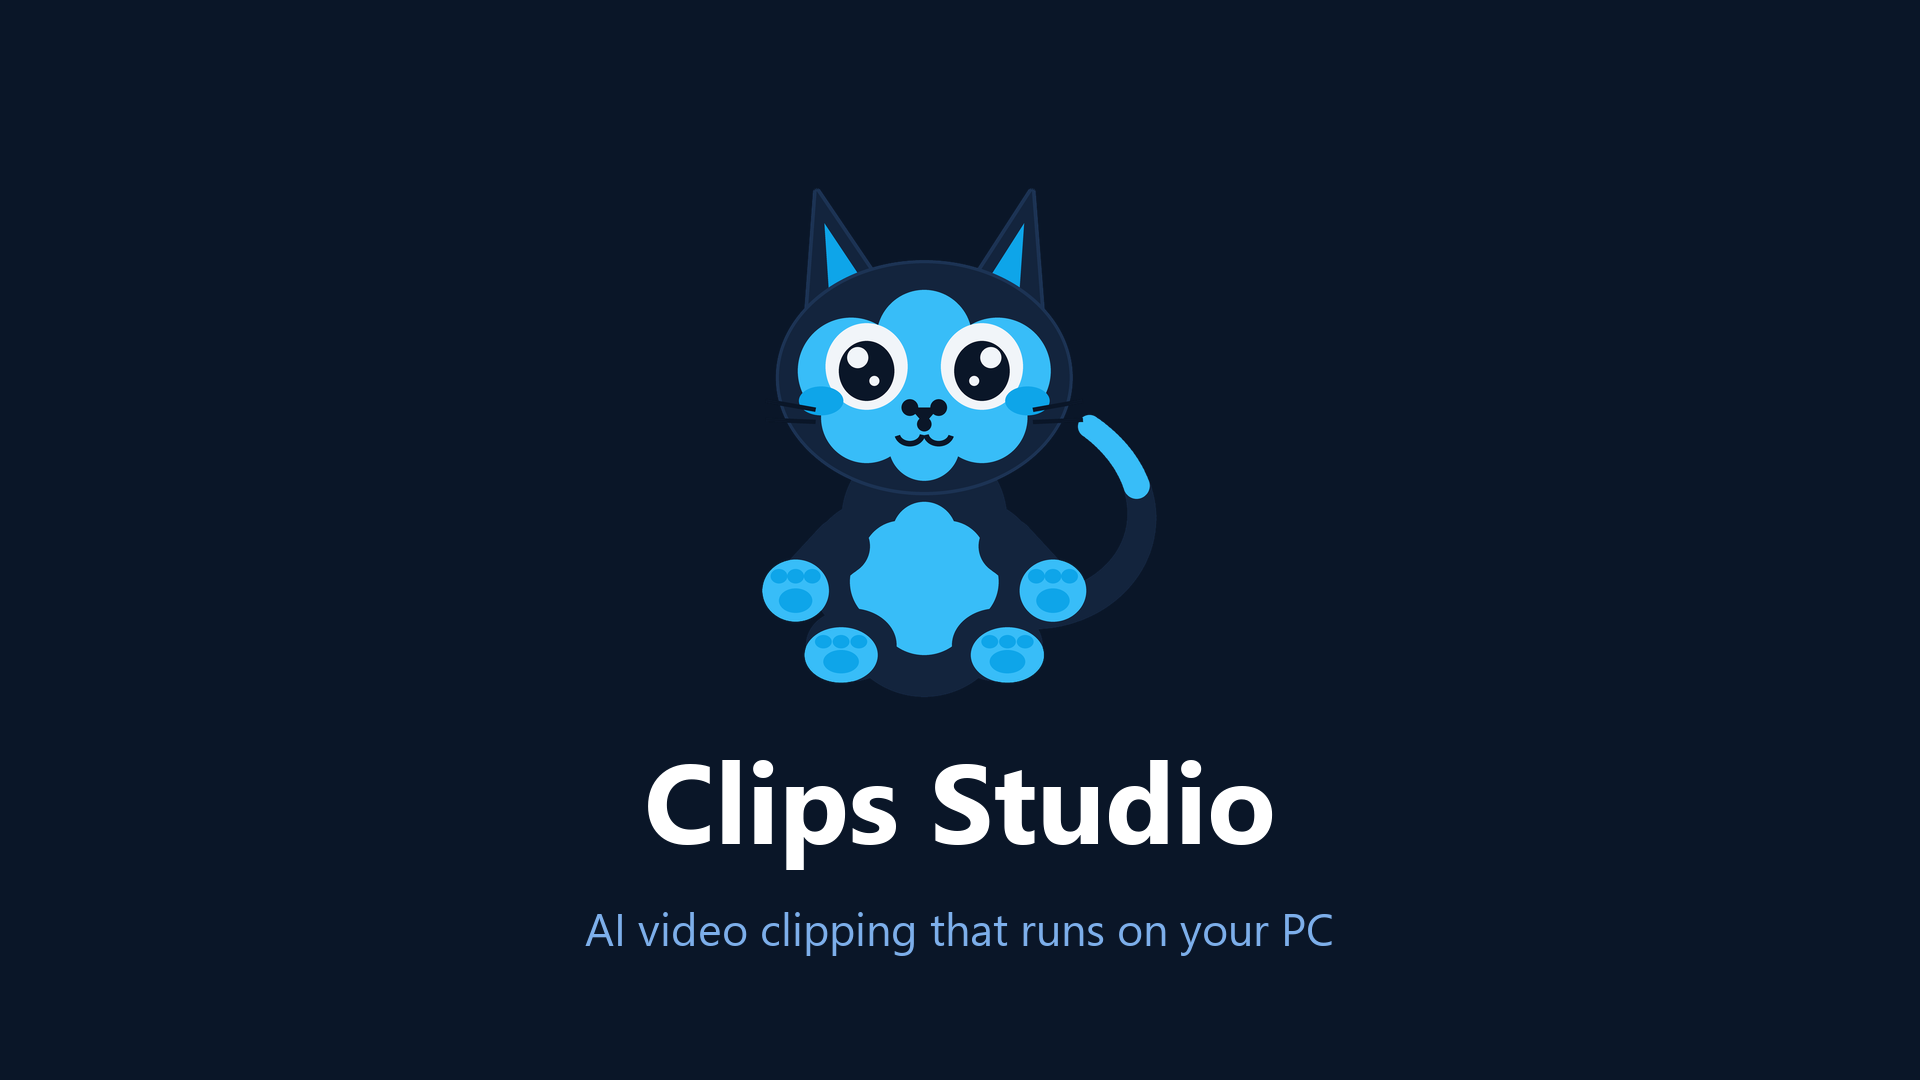
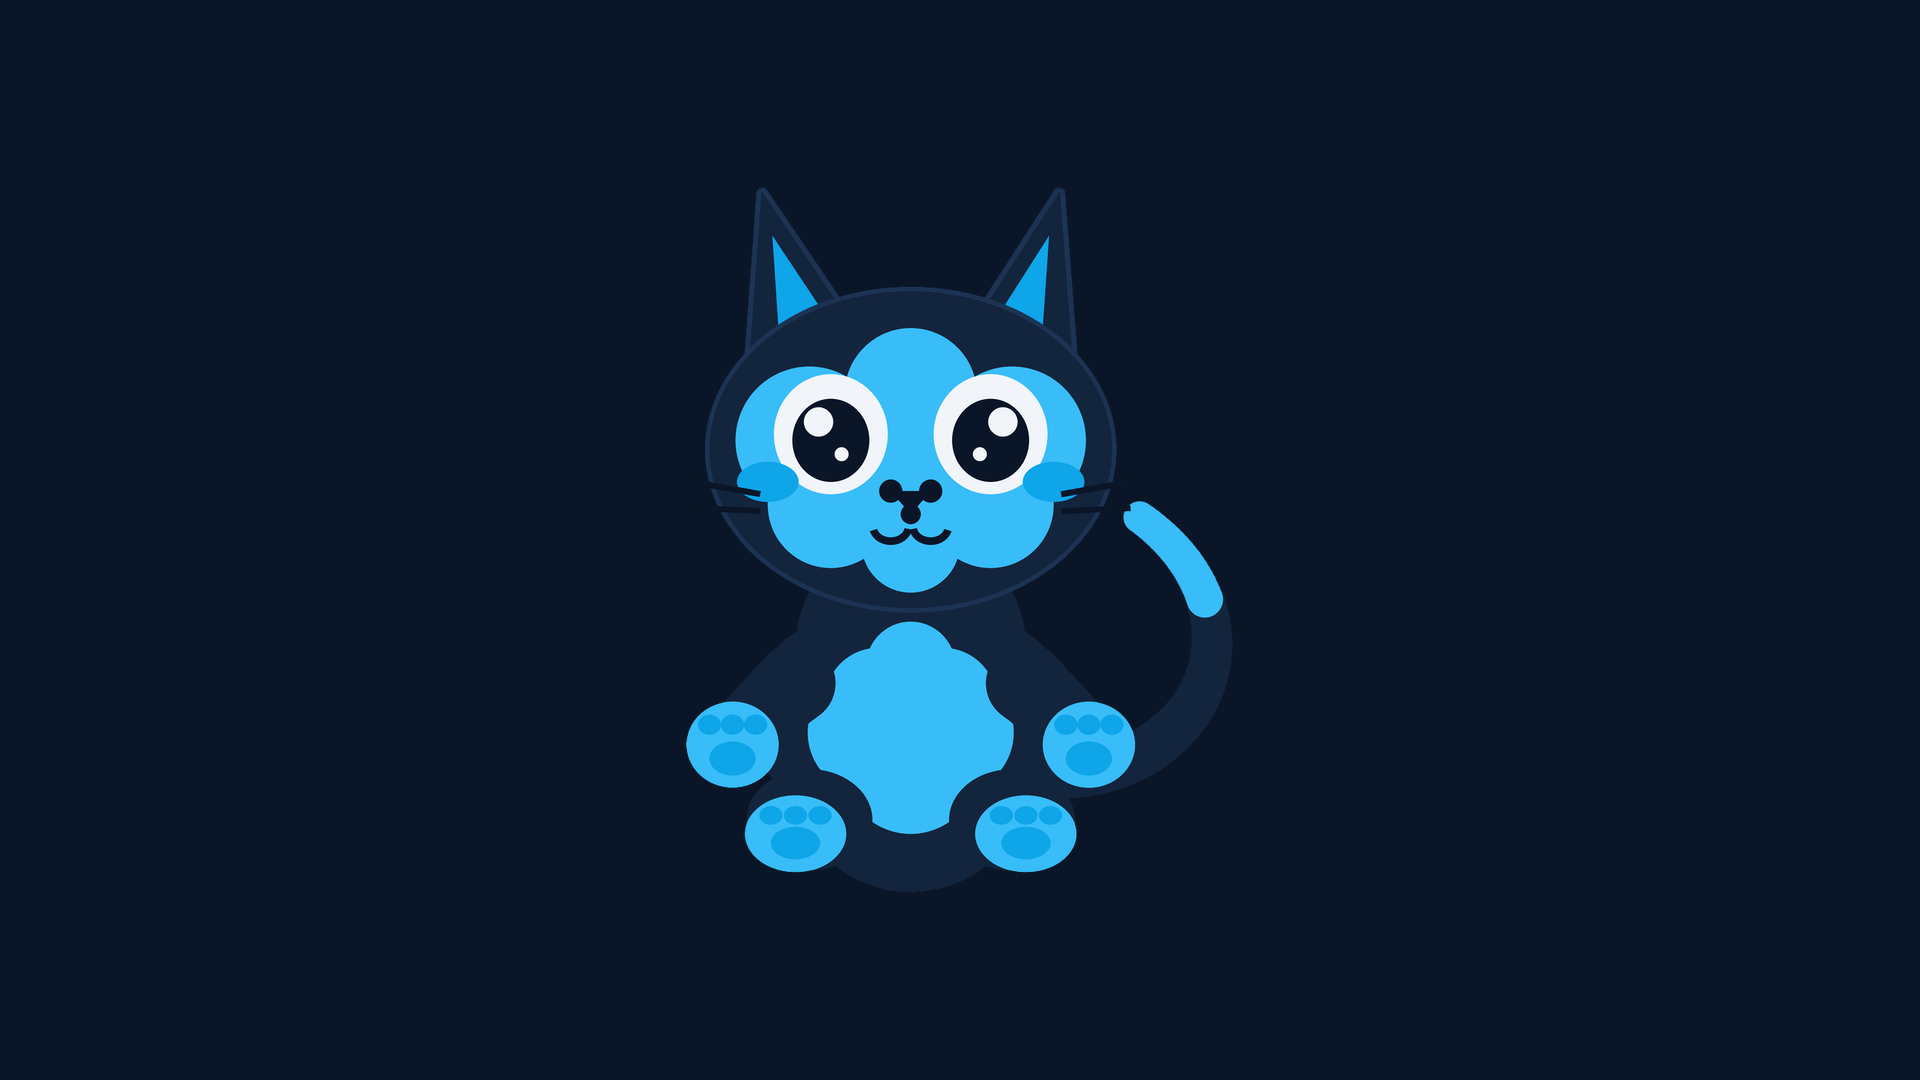
Hero art must not carry the title, and trim the short description
Partner Center states it plainly for 16:9 super hero art: "Must not
include the product's title". It sits behind the listing header, which
prints the name over the top, so a wordmark there collides with it.
Poster art keeps its wordmark - that surface has no other text and no
such rule.

Short description was 363 characters against a recommended 270. That
field is what shows before anyone expands the listing, so the limit is
the one worth respecting rather than the 1,000 the field accepts.

Changed region(s): [[0.3125, 0.1833, 0.6875, 0.825], [0.3125, 0.8556, 0.6875, 0.8861]]

diff --git a/scripts/build_appx_assets.py b/scripts/build_appx_assets.py
@@ -118,10 +118,15 @@ def main() -> int:
     for name, (w, h) in STORE_SIZES.items():
         out = Image.new("RGBA", (w, h), (*BRAND_BG, 255))
 
-        # Box art is a tile: the mascot alone reads better small, and the name
-        # is shown beside it by the Store anyway. The wider shapes are browsing
-        # surfaces where the art has to say what the app is on its own.
-        wordmark = name != "box-art-1x1.png"
+        # Which shapes carry the name, and it is a rule rather than taste:
+        #
+        #   box art     - no. A tile, read small, with the name shown beside it.
+        #   poster art  - yes. A browsing surface with no other text near it.
+        #   hero art    - NO, and Partner Center enforces this: "Must not
+        #                 include the product's title". It sits behind the
+        #                 listing header, which already prints the name over
+        #                 the top, so a wordmark here collides with it.
+        wordmark = name == "poster-art-2x3.png"
 
         side = int(min(w, h) * (0.52 if wordmark else 0.72))
         scaled = src.resize((side, side), Image.Resampling.LANCZOS)

diff --git a/docs/store-listing.md b/docs/store-listing.md
@@ -21,10 +21,14 @@ Two rules this copy follows deliberately:
 Clips Studio
 ```
 
-## Short description (1,000 max)
+## Short description
+
+Field limit is 1,000, but Partner Center recommends **270 or fewer** because
+this is what shows at the top of the listing before anyone expands it. Kept
+under that:
 
 ```
-Turn long videos into vertical clips with AI that runs on your own PC. Paste a YouTube, Twitch or Kick link, or open a video file, and Clips Studio finds the moments worth clipping, follows whoever is speaking, adds subtitles and renders them ready to post. Your footage never leaves your computer. No subscription, no upload, no clip limit. Free and open source.
+Turn long videos into vertical clips using AI that runs on your own PC. Paste a YouTube, Twitch or Kick link and Clips Studio finds the moments worth clipping, keeps the speaker in frame and adds subtitles. Nothing is uploaded. Free and open source.
 ```
 
 ## Description (10,000 max)
